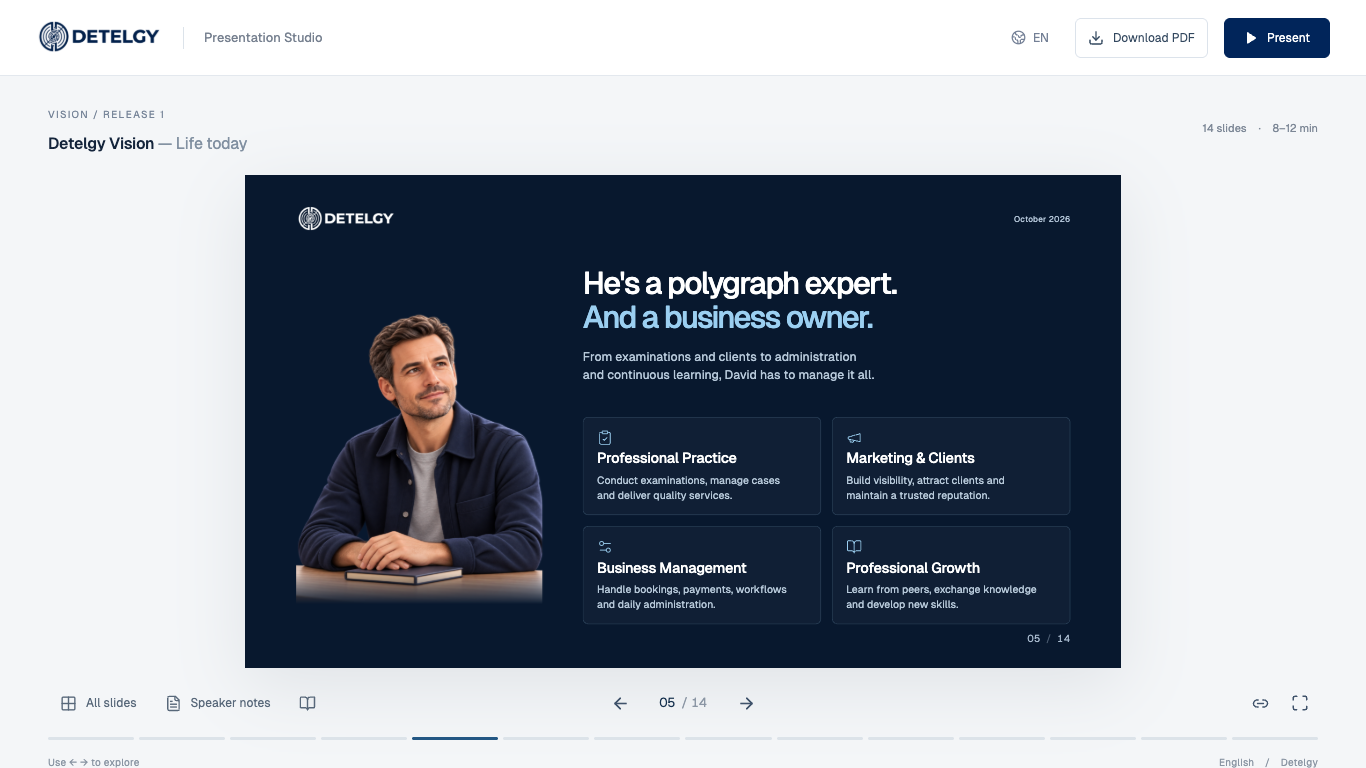
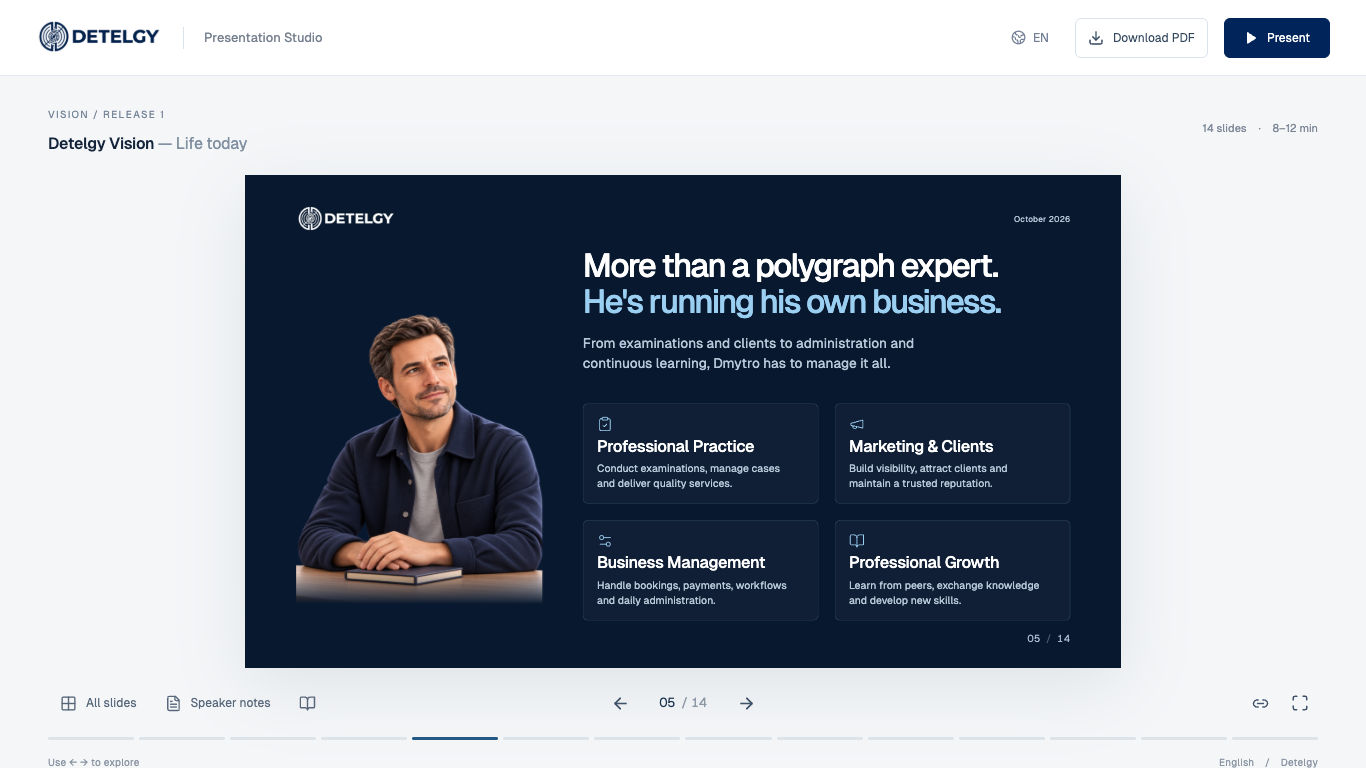
Rename fictional persona to Dmytro throughout deck

diff --git a/components/workload-scene.tsx b/components/workload-scene.tsx
@@ -3,7 +3,7 @@ import type { SlideContent } from '@/lib/presentation';
 export function WorkloadScene({slide}:{slide:SlideContent}) {
   const icons=[ClipboardCheck,Megaphone,Settings2,BookOpen];
   return <div className="workload-scene">
-    <div className="workload-person"><img src="/assets/personas/david-workload.png" alt="Illustrated David, composed at his desk with a notebook"/></div>
+    <div className="workload-person"><img src="/assets/personas/david-workload.png" alt="Illustrated Dmytro, composed at his desk with a notebook"/></div>
     <div className="workload-grid">{slide.items.map((item,i)=>{const Icon=icons[i];return <section className="workload-demand" data-demand={i} key={item.title} tabIndex={0}>
       <Icon size={40} strokeWidth={1.35} aria-hidden="true"/>
       <h3>{item.title}</h3>

diff --git a/components/transformation-scene.tsx b/components/transformation-scene.tsx
@@ -7,12 +7,12 @@ const scenes = [
   {
     className: 'world-before',
     image: '/assets/personas/david-before-office-wide.png',
-    alt: 'David working at a modest desk with handwritten notes, printed pages and folders',
+    alt: 'Dmytro working at a modest desk with handwritten notes, printed pages and folders',
   },
   {
     className: 'world-connected',
     image: '/assets/personas/david-connected-office-wide.png',
-    alt: 'The same David at an organized desk with a laptop in a bright modern workspace',
+    alt: 'Dmytro at an organized desk with a laptop in a bright modern workspace',
   },
 ] as const;
 

diff --git a/docs/visual-redesign-v2.md b/docs/visual-redesign-v2.md
@@ -9,7 +9,7 @@ The founder approved the three-slide direction and authorized the remaining slid
 - S05 places an isolated professional between disconnected activities.
 - S06 groups the six original pains into visibility, support and opportunity; original items remain in reading view.
 - S07 presents four independent professional ambitions in a spacious editorial field.
-- S08 uses two wide editorial scenes of the same illustrative David: a modest manual office and a brighter organized workspace. A narrow comparison card is centered across the lower edge of each photograph, with roughly one quarter overlapping the image and the rest below it, so the environment remains the focal point. Each card carries three concise icon-led comparisons and thin illustrative indicators. The earlier five comparisons, capability status, and non-metric nature of the indicators remain qualified in speaker notes.
+- S08 uses two wide editorial scenes of the same illustrative Dmytro: a modest manual office and a brighter organized workspace. A narrow comparison card is centered across the lower edge of each photograph, with roughly one quarter overlapping the image and the rest below it, so the environment remains the focal point. Each card carries three concise icon-led comparisons and thin illustrative indicators. The earlier five comparisons, capability status, and non-metric nature of the indicators remain qualified in speaker notes.
 - S09 connects four product pillars around the professional, with built and planned mechanisms visible.
 - S11 uses an open value loop; the hypothesis caveat remains.
 - S12 branches into three complementary career paths.
@@ -112,9 +112,9 @@ Ice-blue #E6F2FC canvas, navy #102541 headline and #24699E second line, with #52
 
 The compass rose was removed after user feedback about its resemblance to the NATO emblem. A faint, asymmetric botanical sprout now supports the growth message behind the secondary copy. Portraits and layout remain unchanged.
 
-## Slide 04 — Meet David, primary persona
+## Slide 04 — Meet Dmytro, primary persona
 
-Slide 04 introduces who the independent examiner is and what he wants; barriers remain for Slide 05. The portrait occupies 38% of the content width on warm off-white. David · 41, Kyiv, Ukraine, and Independent Polygraph Examiner remain legible over the portrait, with 12 years in practice shown in the editorial text. The illustrative nature of the fictional persona stays in speaker notes rather than a visible label. The headline is two lines with a deeper-blue second line. Experience, Goal and Ambition are large, unboxed editorial blocks. The entrance sequence and reduced-motion and print fallbacks remain intact. The full-deck PDF remains deferred.
+Slide 04 introduces who the independent examiner is and what he wants; barriers remain for Slide 05. The portrait occupies 38% of the content width on warm off-white. Dmytro · 41, Kyiv, Ukraine, and Independent Polygraph Examiner remain legible over the portrait, with 12 years in practice shown in the editorial text. The illustrative nature of the fictional persona stays in speaker notes rather than a visible label. The headline is two lines with a deeper-blue second line. Experience, Goal and Ambition are large, unboxed editorial blocks. The entrance sequence and reduced-motion and print fallbacks remain intact. The full-deck PDF remains deferred.
 
 ### Slide 04 entrance refinement
 
@@ -122,11 +122,11 @@ Sequence: photo (0–450ms), caption (450–800ms), headline (800–1150ms), Exp
 
 ## Slide 05 — The hidden workload
 
-The takeaway is that a capable examiner faces competing responsibilities beyond examinations. The six-island network is replaced with an illustrated David at his desk surrounded by four unboxed demands: Serve Clients, Find New Business, Build Connections, Keep Growing. The existing dark navy canvas, white headline and sky-blue second line retain editorial hierarchy. No connector network, orbit, or continuous motion. David reveals first, followed by the four demands at 250ms intervals; everything is visible by 1.6 seconds. Reduced motion and print show the complete state. Notes preserve the hypothesis qualification and the value of existing communities. Slides 04 and 06 are unchanged from the Slide 04 checkpoint. Screenshot QA at 1920×1080 and laptop scale, static print visibility, animation timings and reduced motion verified. Full-deck PDF remains deferred.
+The takeaway is that a capable examiner faces competing responsibilities beyond examinations. The six-island network is replaced with an illustrated Dmytro at his desk surrounded by four unboxed demands: Serve Clients, Find New Business, Build Connections, Keep Growing. The existing dark navy canvas, white headline and sky-blue second line retain editorial hierarchy. No connector network, orbit, or continuous motion. Dmytro reveals first, followed by the four demands at 250ms intervals; everything is visible by 1.6 seconds. Reduced motion and print show the complete state. Notes preserve the hypothesis qualification and the value of existing communities. Slides 04 and 06 are unchanged from the Slide 04 checkpoint. Screenshot QA at 1920×1080 and laptop scale, static print visibility, animation timings and reduced motion verified. Full-deck PDF remains deferred.
 
 ### Slide 05 structured two-column refinement
 
-Supersedes the floating-demand composition at the user's request. David anchors the left column; the right column contains the two-line headline, balanced two-line supporting copy, and a strict 2×2 grid. Four lightly bordered cards each have a small icon, title and concise supporting sentence. Content remains visible without hover; hover/focus adds tonal, border and icon emphasis. Entrance order is headline, subline, David, then the four cards, completed in 1.65 seconds. Screenshots, hover/focus, reduced motion and fully visible print styling verified. No other slide content changed.
+Supersedes the floating-demand composition at the user's request. Dmytro anchors the left column; the right column contains the two-line headline, balanced two-line supporting copy, and a strict 2×2 grid. Four lightly bordered cards each have a small icon, title and concise supporting sentence. Content remains visible without hover; hover/focus adds tonal, border and icon emphasis. Entrance order is headline, subline, Dmytro, then the four cards, completed in 1.65 seconds. Screenshots, hover/focus, reduced motion and fully visible print styling verified. No other slide content changed.
 
 ## Slide 06 — barriers to growth
 

diff --git a/docs/assets.md b/docs/assets.md
@@ -24,5 +24,5 @@ For final illustrated assets: commission or generate one coordinated set of thre
 ### Slide 03 portrait replacement — 17 October 2026
 The earlier SVG prototype set is replaced with three coordinated dimensional character portraits generated using the built-in image tool, inspired by the user's reference. Final transparent PNG assets: `public/assets/personas/emerging-3d.png`, `examiner-3d.png`, and `expert-3d.png`. Full prompts and reference roles: `docs/persona-image-prompts.md`. These are fictional illustrated characters, not actual members; this qualification remains in speaker notes. The earlier commission brief is superseded by these integrated assets.
 
-### Slide 05 — David's competing responsibilities
-`public/assets/personas/david-workload.png` is a generated, transparent illustration adapting David's existing portrait to the dimensional visual direction. It is fictional, not customer evidence. Built-in image generation used; exact prompt and reference roles recorded in `docs/slide-05-image-prompt.md`.
+### Slide 05 — Dmytro's competing responsibilities
+`public/assets/personas/david-workload.png` is a generated, transparent illustration adapting Dmytro's existing portrait to the dimensional visual direction. It is fictional, not customer evidence. Built-in image generation used; exact prompt and reference roles recorded in `docs/slide-05-image-prompt.md`.

diff --git a/docs/slide-05-image-prompt.md b/docs/slide-05-image-prompt.md
@@ -1,6 +1,6 @@
 # Slide 05 illustration
 
-Generated with the built-in image generation tool. Reference 1: existing fictional David portrait. Reference 2: Slide 03 examiner portrait for rendering style. Final transparent asset: `public/assets/personas/david-workload.png`.
+Generated with the built-in image generation tool. Reference 1: existing fictional Dmytro portrait. Reference 2: Slide 03 examiner portrait for rendering style. Final transparent asset: `public/assets/personas/david-workload.png`. The original prompt below used the persona's former name, David; the image and internal asset filename are unchanged.
 
 ## Prompt
 
